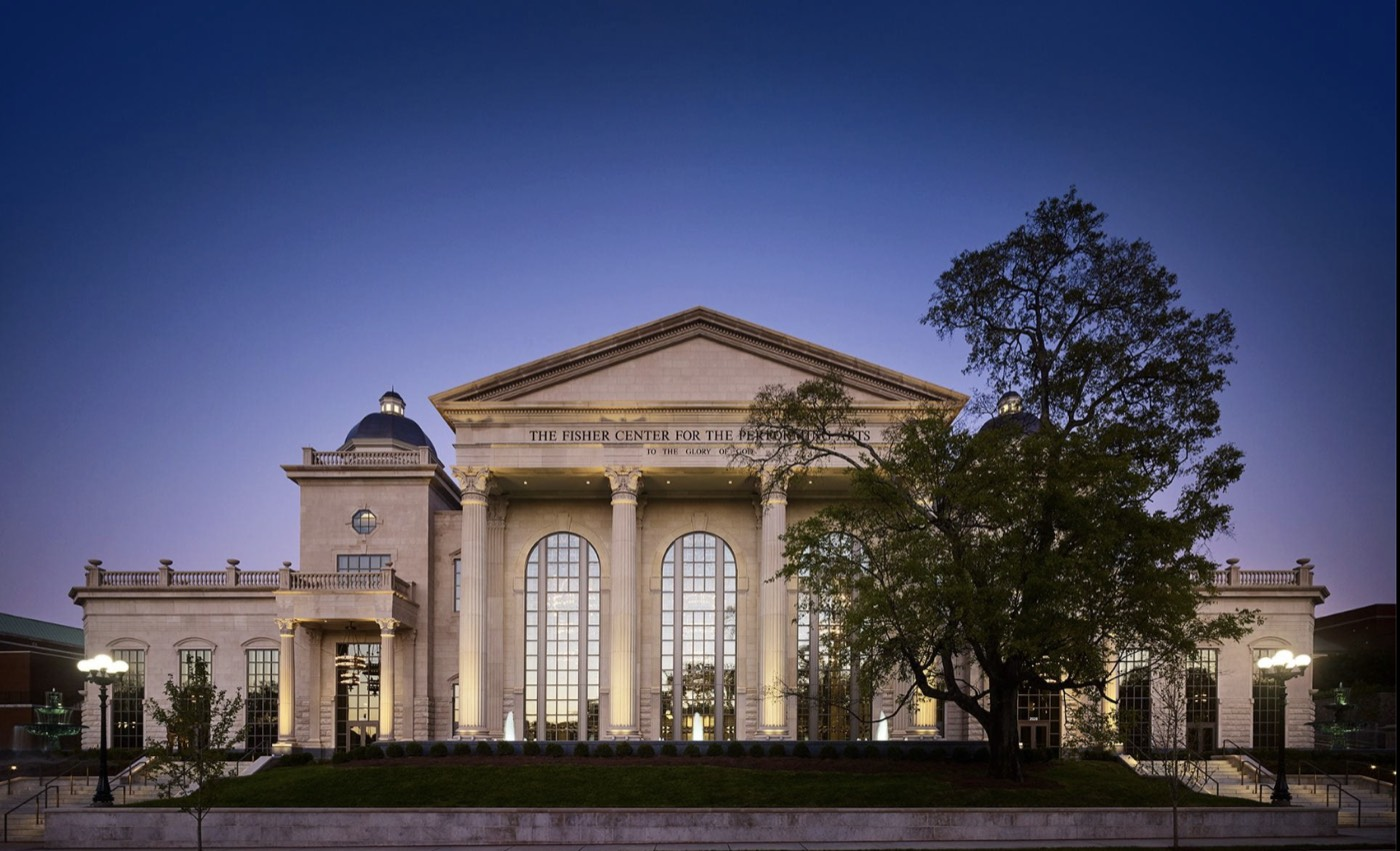
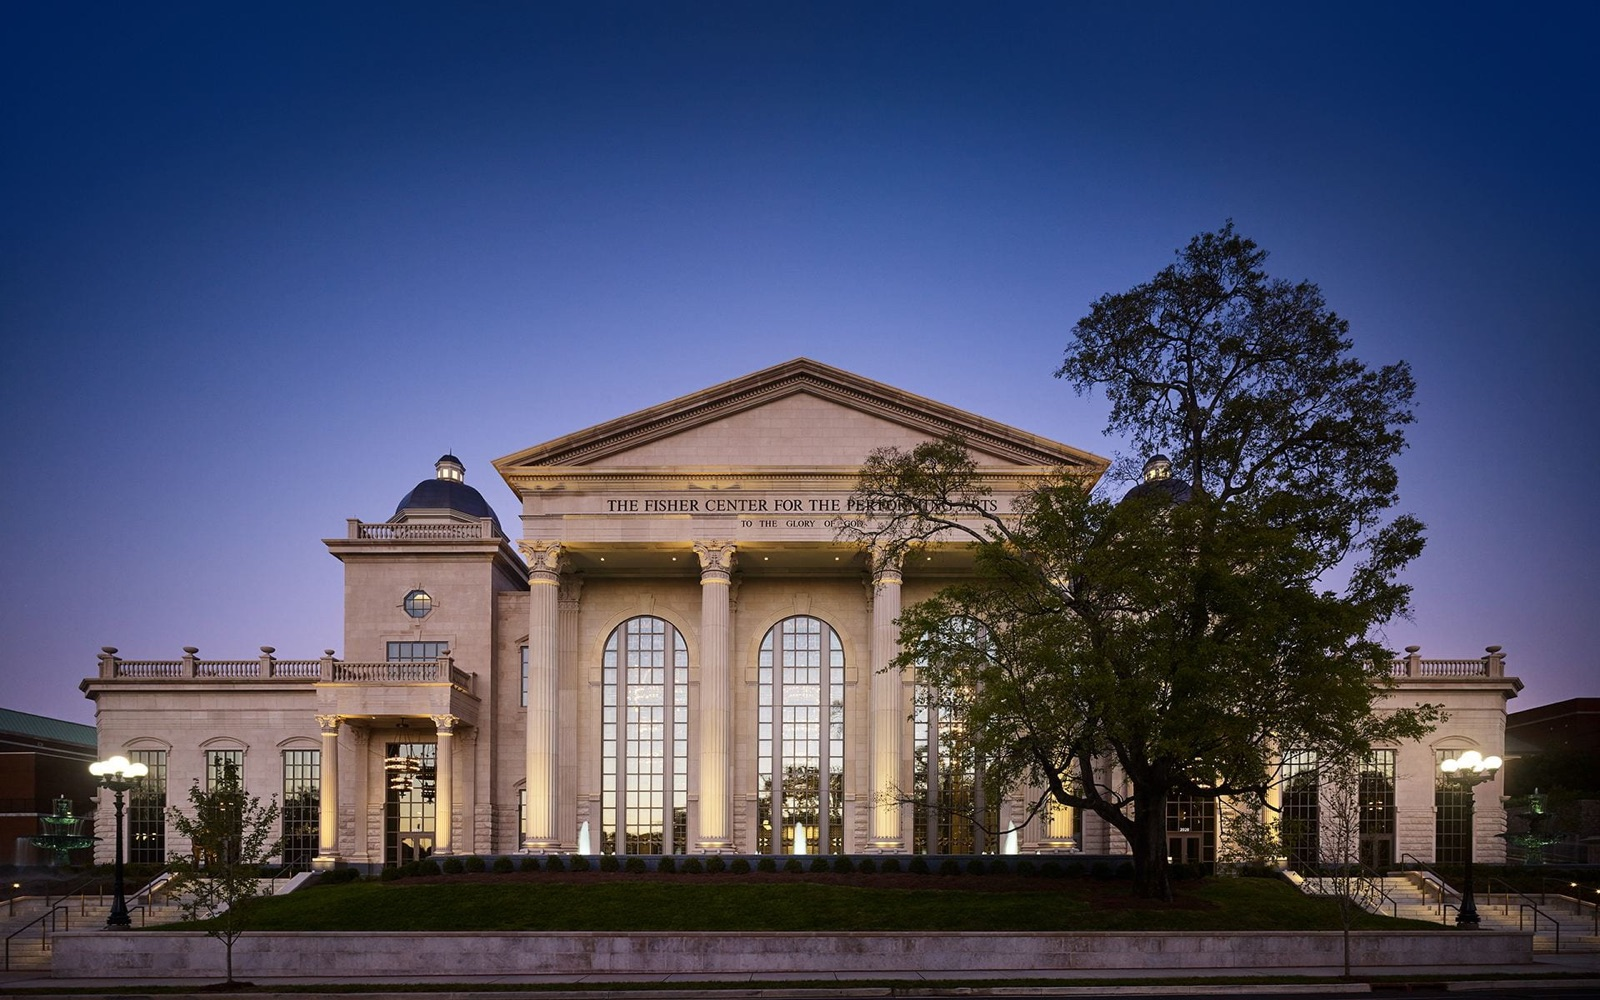
Replace Fisher Center image with new exterior photo (#3)

Changed region(s): [[0.0, 0.0, 1.0, 1.0]]

diff --git a/page-venue.jsx b/page-venue.jsx
@@ -21,7 +21,7 @@ window.IFVenue = (() => {
                 </div>
               </div>
               <div className="vn-map">
-                <image-slot id="venue-map" src="uploads/fisher-center.jpg" placeholder="Venue exterior or map graphic" shape="rounded" radius="20"></image-slot>
+                <image-slot id="venue-map" src="uploads/fisher-center.jpg?v=2" placeholder="Venue exterior or map graphic" shape="rounded" radius="20"></image-slot>
               </div>
             </div>
           </div>

diff --git a/index.html b/index.html
@@ -31,7 +31,7 @@
   <script type="text/babel" src="page-speakers.jsx?v=8"></script>
   <script type="text/babel" src="page-agenda.jsx?v=1"></script>
   <script type="text/babel" src="page-tickets.jsx?v=2"></script>
-  <script type="text/babel" src="page-venue.jsx?v=2"></script>
+  <script type="text/babel" src="page-venue.jsx?v=3"></script>
   <script type="text/babel" src="page-past.jsx?v=5"></script>
   <script type="text/babel" src="app.jsx?v=4"></script>
 </body>
